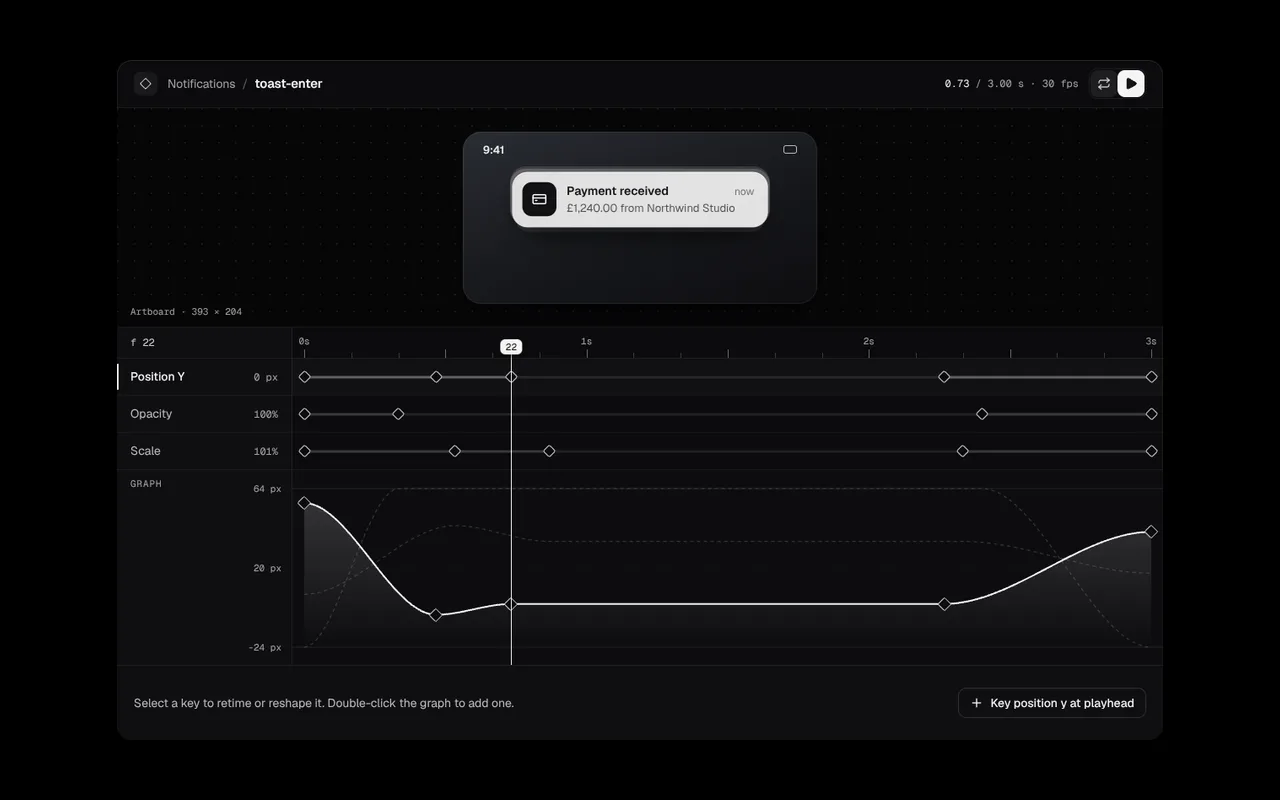
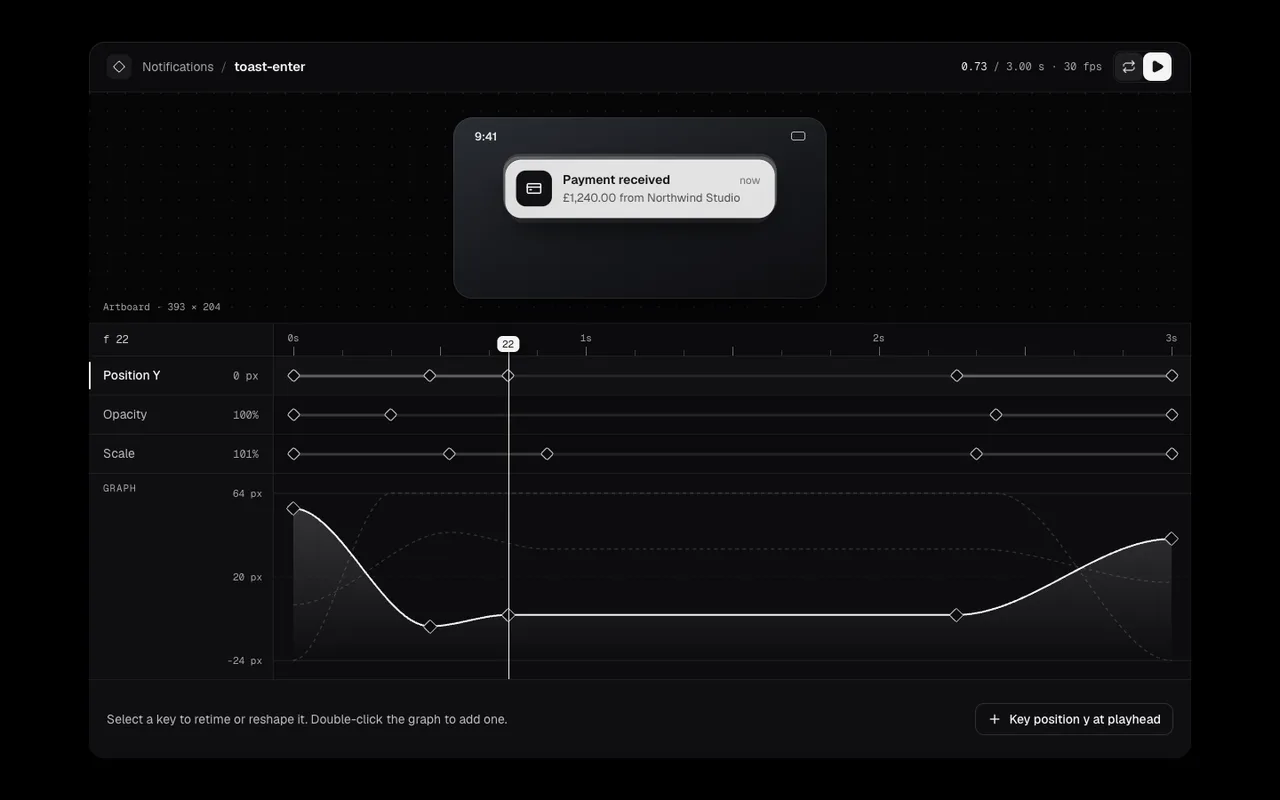
Verify keyframe edits, phone targets and the recorded gesture

diff --git a/docs/review/STATUS.md b/docs/review/STATUS.md
@@ -72,7 +72,7 @@ See [the handoff checkpoint](HANDOFF_TASKS.md#8-final-release-checks) for revisi
 | `editor-color-token-studio` | current | current | Next-backed pointer/keyboard, palette failure/retry, clipboard, invalid ids, controlled read-only and stale-reply regression passes; eight theme/accent accessibility states, four controls and 320/390/768/1440 geometry pass. Reviewed neutral 5.2s film shows the AA repair and settled Applied receipt; source/delivery/moving-frame guards pass. |
 | `editor-export-preset` | current | current | Next-backed pointer/keyboard, exact export, failure/retry, pending locks, empty/invalid options and retired-layer regression pass. Both-theme accessibility, six widths, entrance/state captures, five controls, official audit and refreshed poster pass; reviewed 5.3s reshape/comparison/export film and matching poster are current. |
 | `editor-font-pairing` | current | current | Next-backed keyboard/exact-CSS/retry/pending/newer-draft/mutation/empty-catalogue regression passes. Missing writers stay unavailable, and the labelled specimen supports keyboard scrolling. The 27-mount source review, 16 state/default accessibility audits, six widths, entrance/state captures, four controls, official audit and metadata replay pass. The initial 10.5px clipping failure is retained; matching 900px stage/preview heights, complete framing and refreshed poster pass. Strict registry, TypeScript, isolated Pro types and all 1,063 unit tests pass. Reviewed 6.2s face/scale/highlight/applied film and paired poster are current; all recording guards pass. |
-| `editor-keyframe-track` | new | current |  |
+| `editor-keyframe-track` | new | current | Next-backed exact-hold/keyboard/drag-commit/copied-payload/add-delete/playback/empty/invalid-clock regression passes. Overlapping phone targets are fixed with a contained timeline, 44px coarse-pointer targets and independent Home/End/arrow panning. Original failures are retained. The 35-mount source review, 28 state/default accessibility audits, six widths, entrance/state captures, five controls, official audit, actual-edit metadata replay and complete 880px framing/poster pass. Strict registry, TypeScript, isolated Pro types and all 1,063 unit tests pass. |
 | `editor-layer-stack` | new | current |  |
 | `editor-spacing-inspector` | current | current | Next-backed pointer/keyboard/linked-padding/snap/exact-layout/clipboard-retry/stale-reply/mutation/empty/invalid regression passes. Its 27-mount source review, 14 state/default accessibility audits, six widths, entrance/state captures, five controls, official audit and metadata replay pass; the replay requires a real padding increase. The initial 60.7px clipping failure is retained; matching 960px stage/preview heights, complete framing and refreshed poster pass. Strict registry, TypeScript, isolated Pro types and all 1,063 unit tests pass. Reviewed 4.6s padding/row/alignment film and paired poster are current; all recording guards pass. |
 | `editor-storyboard-strip` | new | current |  |

diff --git a/docs/review/HANDOFF_TASKS.md b/docs/review/HANDOFF_TASKS.md
@@ -279,6 +279,8 @@ and how to know it's done. Pick any of them up independently. Background, briefs
 
 - Task 1: Spacing Inspector now has a reviewed 4.6s film showing the real padding drag, row transformation and settled centred layout. Complete 960px framing matches its paired opening poster. Maximum source gap is 14ms, changed-source delivery is 16.2ms and moving-frame p95 is 17.8ms, with no stalls and all guards retained. 118 listed films remain.
 
+- Task 5: Keyframe Track now covers exact hold boundaries, keyboard selection/editing, real drag commits, copied track payloads, key insertion/deletion, playback completion and empty/invalid clocks. The original boundary, activation and clock failures are preserved. The official audit also found overlapping phone targets; the timeline now pans in its own labelled region, keeps coarse-pointer targets at 44px and supports Home/End/arrows without taking key-edit shortcuts. Its 35-mount source review, 28 state/default accessibility audits, six widths, entrance/state captures, Next regression, five controls, official audit and complete 880px replay/poster pass. Metadata replay requires an actual changed, selected key. Strict registry, TypeScript, isolated Pro types and all 1,063 unit tests pass. 64 components remain without dedicated coverage; its film remains in task 1.
+
 ## Ground rules (read first)
 
 - Two repos. Public: `richawo/Design-components-for-AI-agents` (this one). Pro: `richawo/Design-for-AI`, private, cloned
@@ -403,14 +405,14 @@ Its log is `test-results/handoff-next/browser-suite-green.log`.
 
 ## 5. Write browser probes for components that have none
 
-65 finished components still have no dedicated browser regression probe. For each, read its source and
+64 finished components still have no dedicated browser regression probe. For each, read its source and
 `meta.json`, then add a case to the appropriate `tests/browser/*.mjs` suite (or a new probe registered in
 `scripts/test-components.mjs`) covering: the signature interaction, keyboard paths, failed-then-successful callbacks
 with drafts kept (where it has async callbacks), and empty or invalid data. Use `tests/browser/pro-50/hr-org-explorer.mjs`
 as the model for style and depth. Mobile components render through React Native web (`scripts/lib/component-fixture.mjs` aliases it);
 see `tests/browser/mobile-accessibility-probe.mjs` for a native example.
 
-`editor-keyframe-track`, `editor-layer-stack`
+`editor-layer-stack`
 `editor-storyboard-strip`, `editor-version-restore`, `three-exploded-assembly`
 `three-material-inspector`, `agents-budget-guard`, `agents-dependency-board`, `agents-run-replay`
 `ai-answer-compare`, `ai-context-budget`, `ai-structured-output`, `auth-recovery-codes`, `devtools-icon-workbench`
